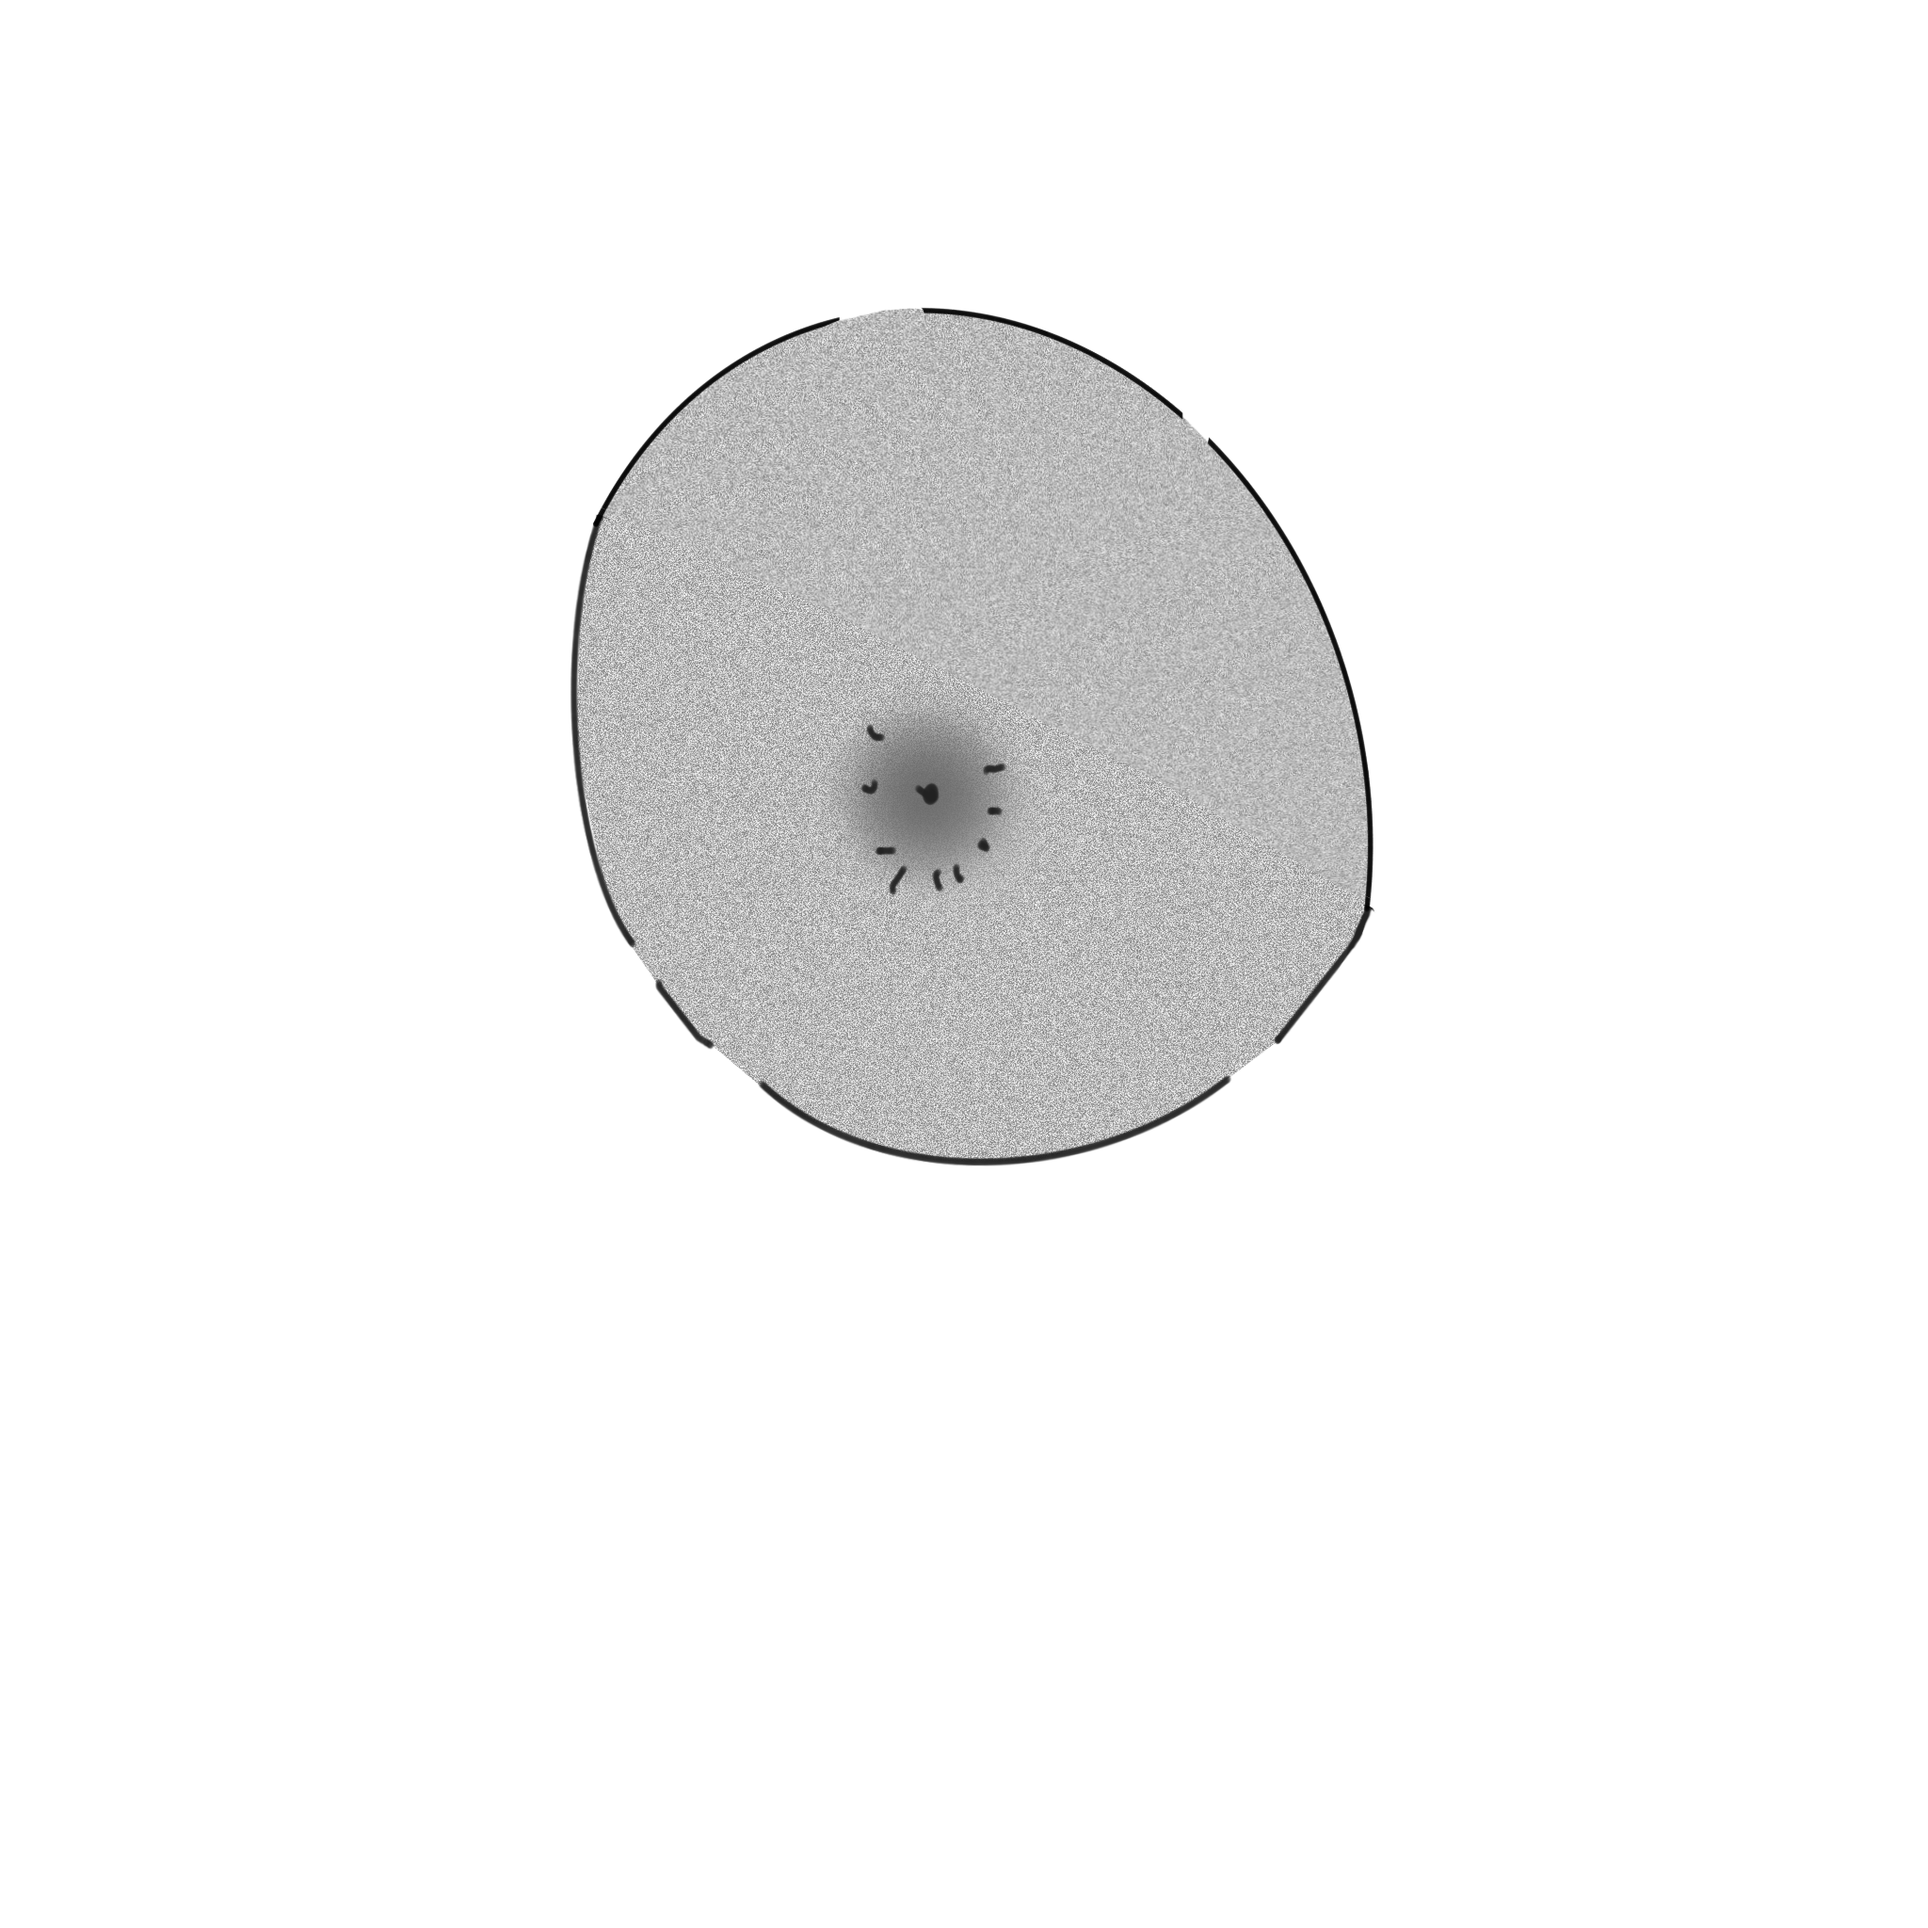
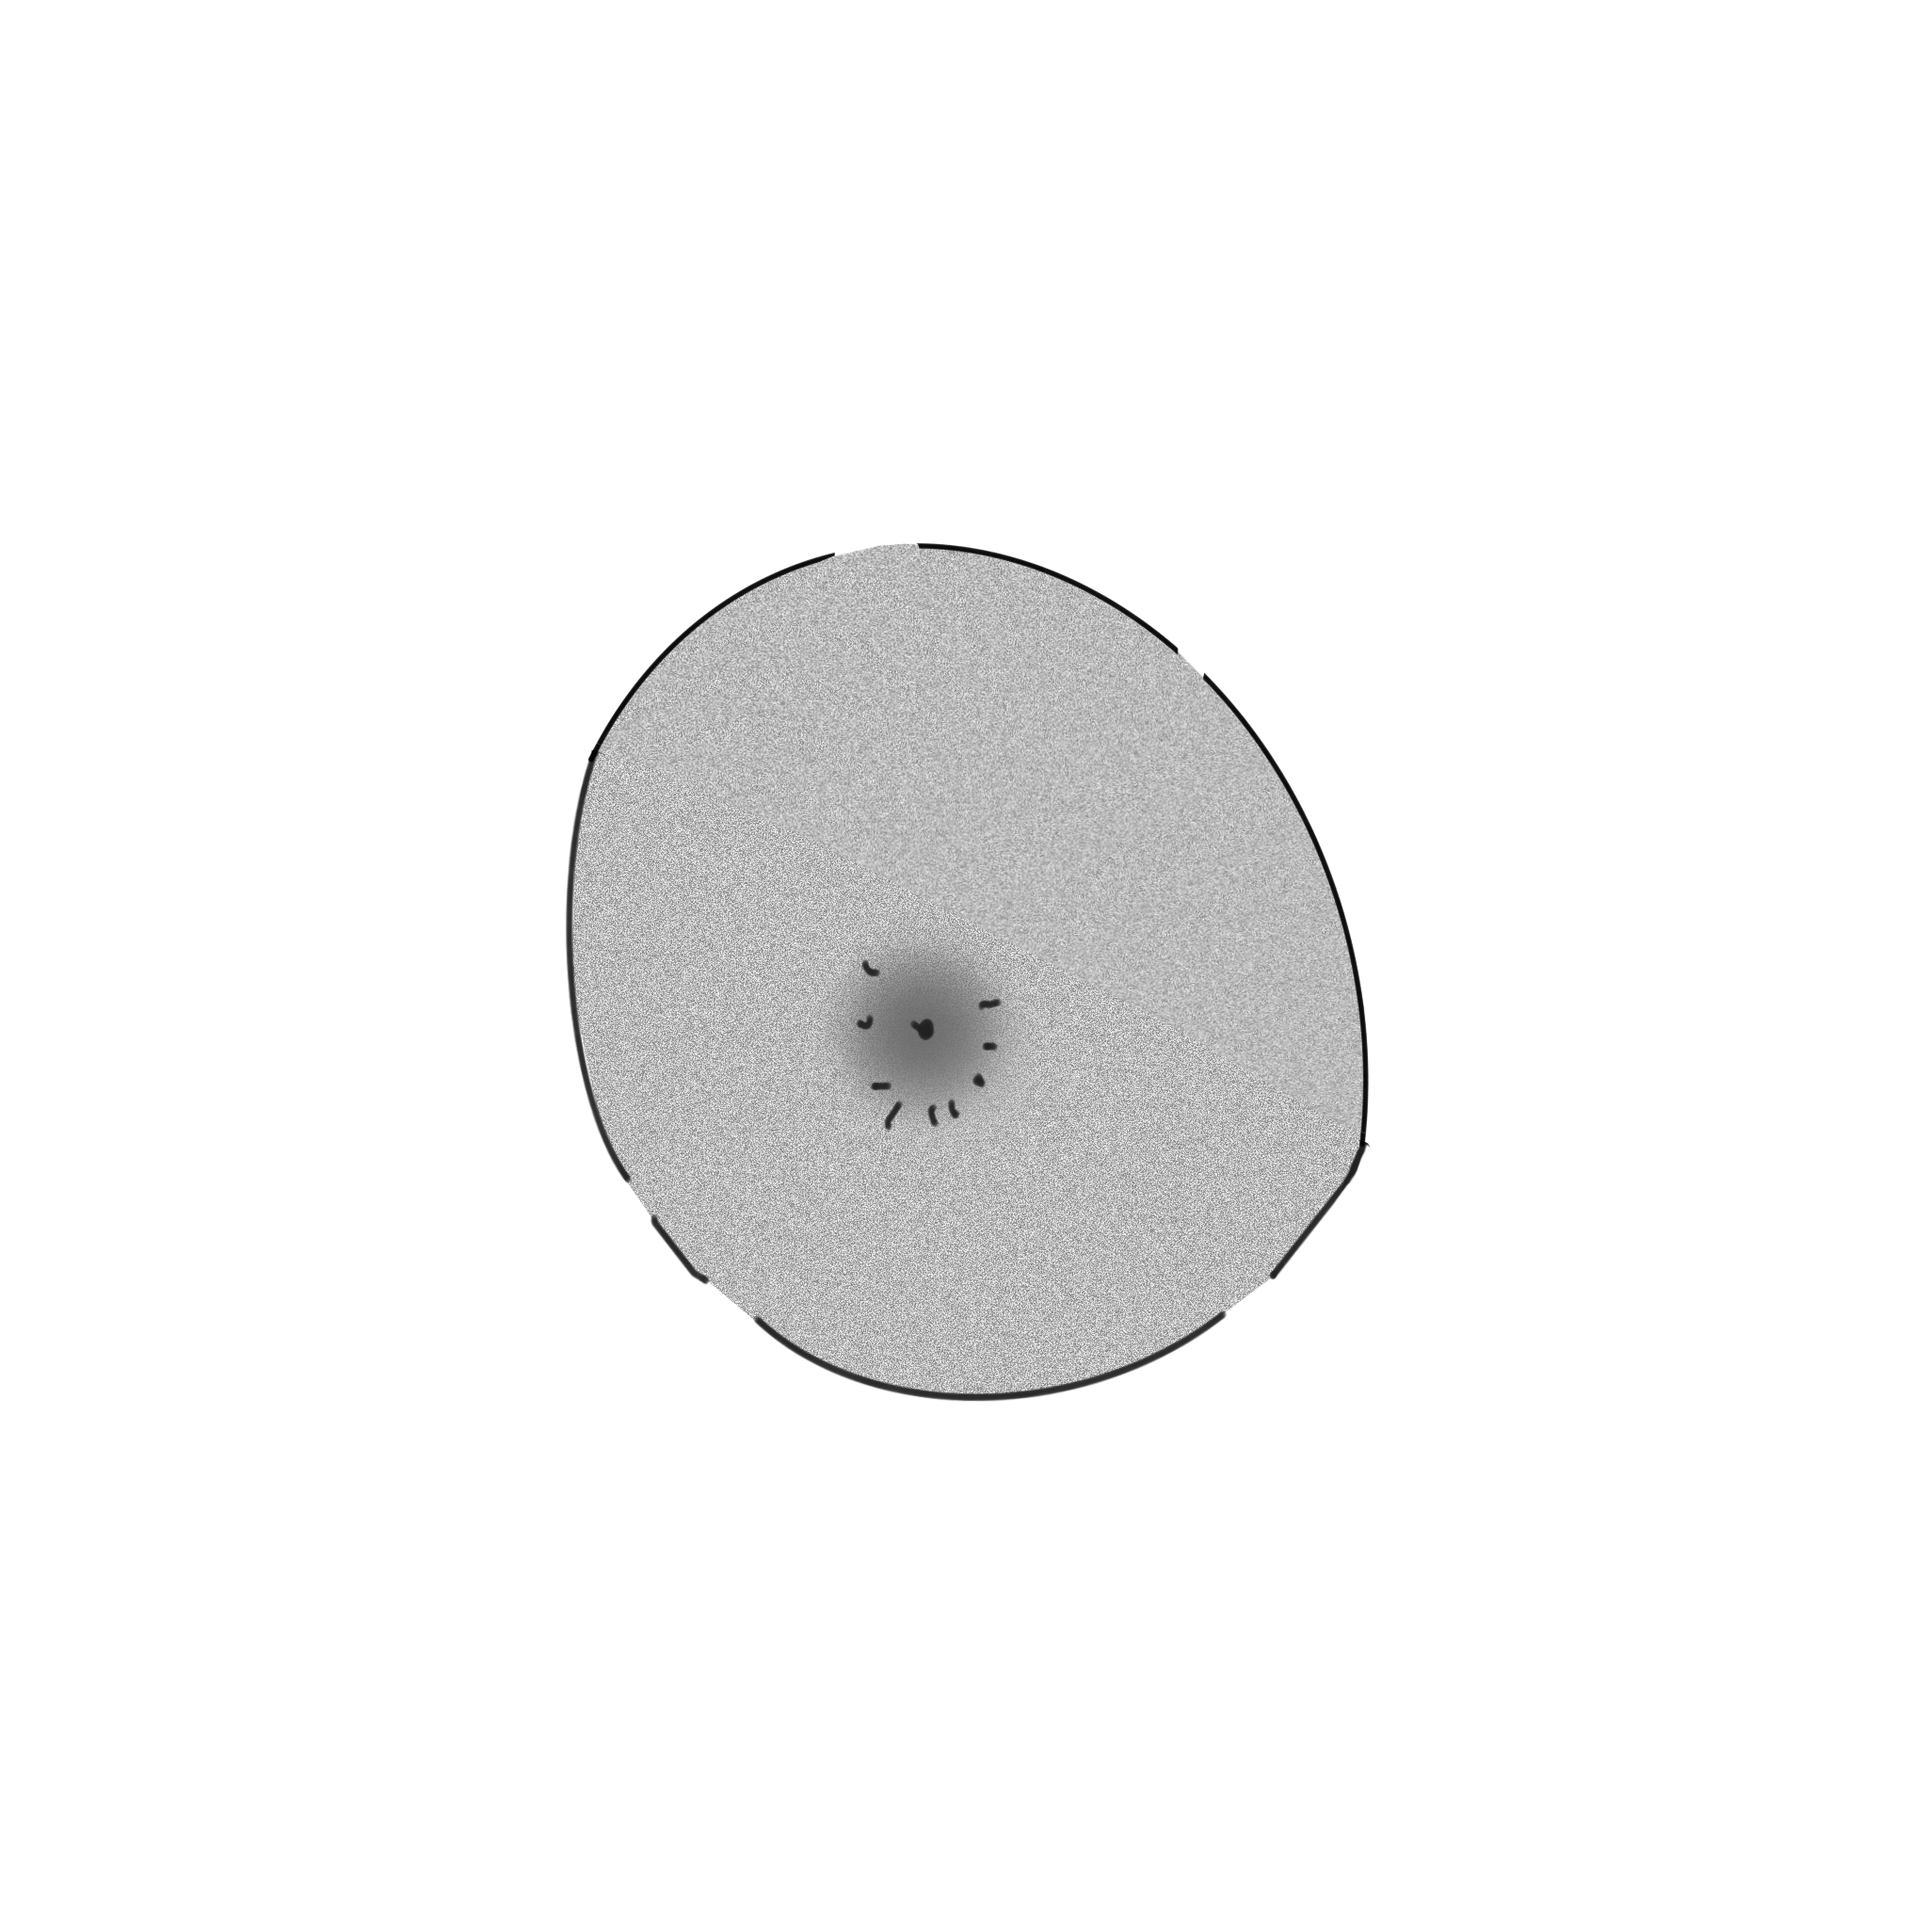
adjusted eyeball animation

Changed region(s): [[0.2812, 0.1562, 0.7188, 0.75]]

diff --git a/SurveillanceArt/htmls/sample.html b/SurveillanceArt/htmls/sample.html
@@ -38,9 +38,9 @@
         const eye = document.getElementById('eye');
         const eyeball = document.getElementById('eyeball');
 
-        //只有 鼠标在眼睛区域上方移动 时，这个函数才会一直被触发。
+        //只有 鼠标在窗口区域时，这个函数才会一直被触发。
         //function(e)是事件发生时要执行的代码
-        eye.addEventListener('mousemove', function (e) {
+        window.addEventListener('mousemove', function (e) {
             // rect = “眼睛这个方块在窗口里的具体位置和大小”。
             //getBoundingClientRect() = 返回一个矩阵对象
             const rect = eye.getBoundingClientRect();
@@ -66,11 +66,6 @@
 
             // apply movement,move the eyeball using transform
             eyeball.style.transform = `translate(${dx}px, ${dy}px)`;
-        });
-
-        // when mouse leaves, eyeball goes back to center
-        eye.addEventListener('mouseleave', function () {
-            eyeball.style.transform = 'translate(0, 0)';
         });
     </script>
 
